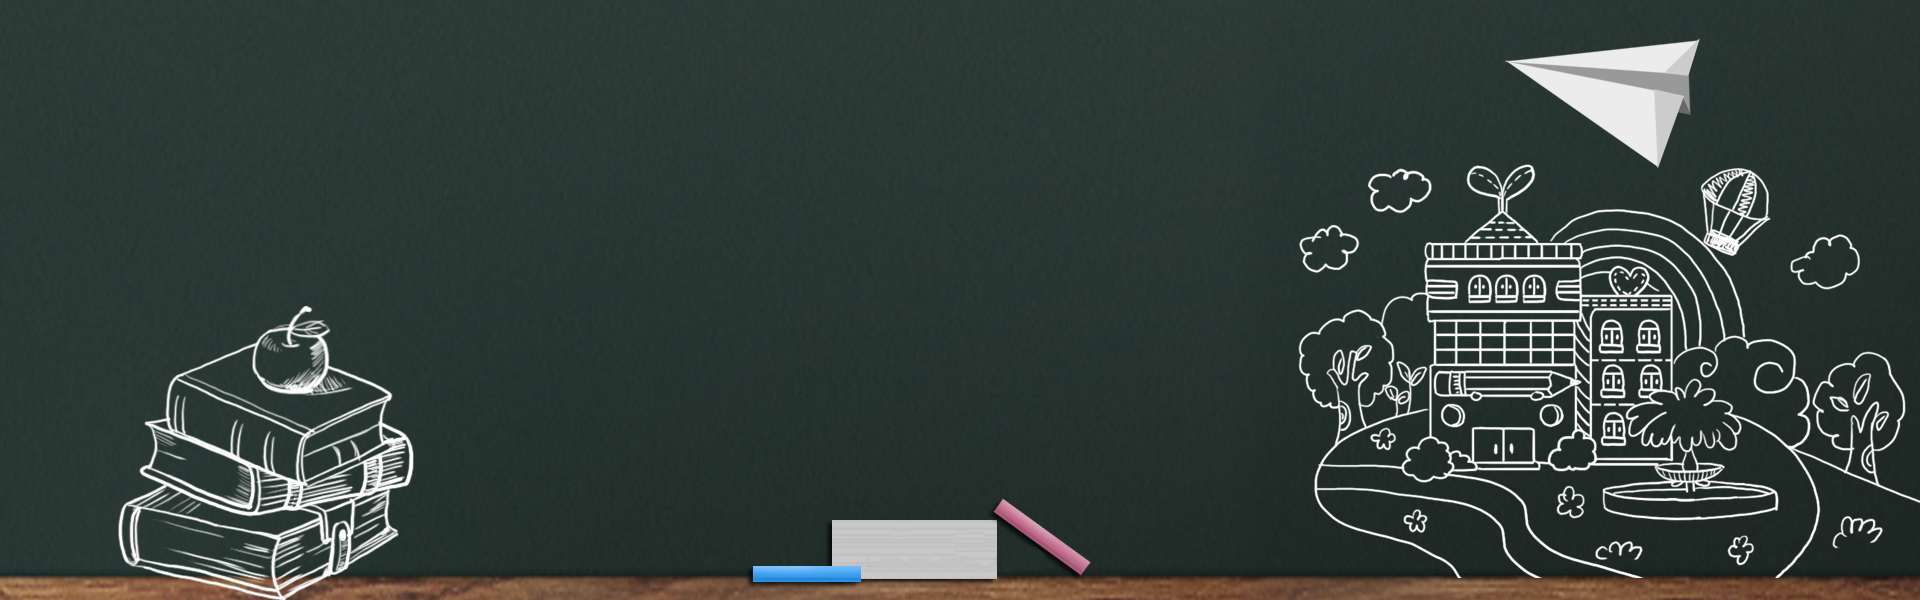
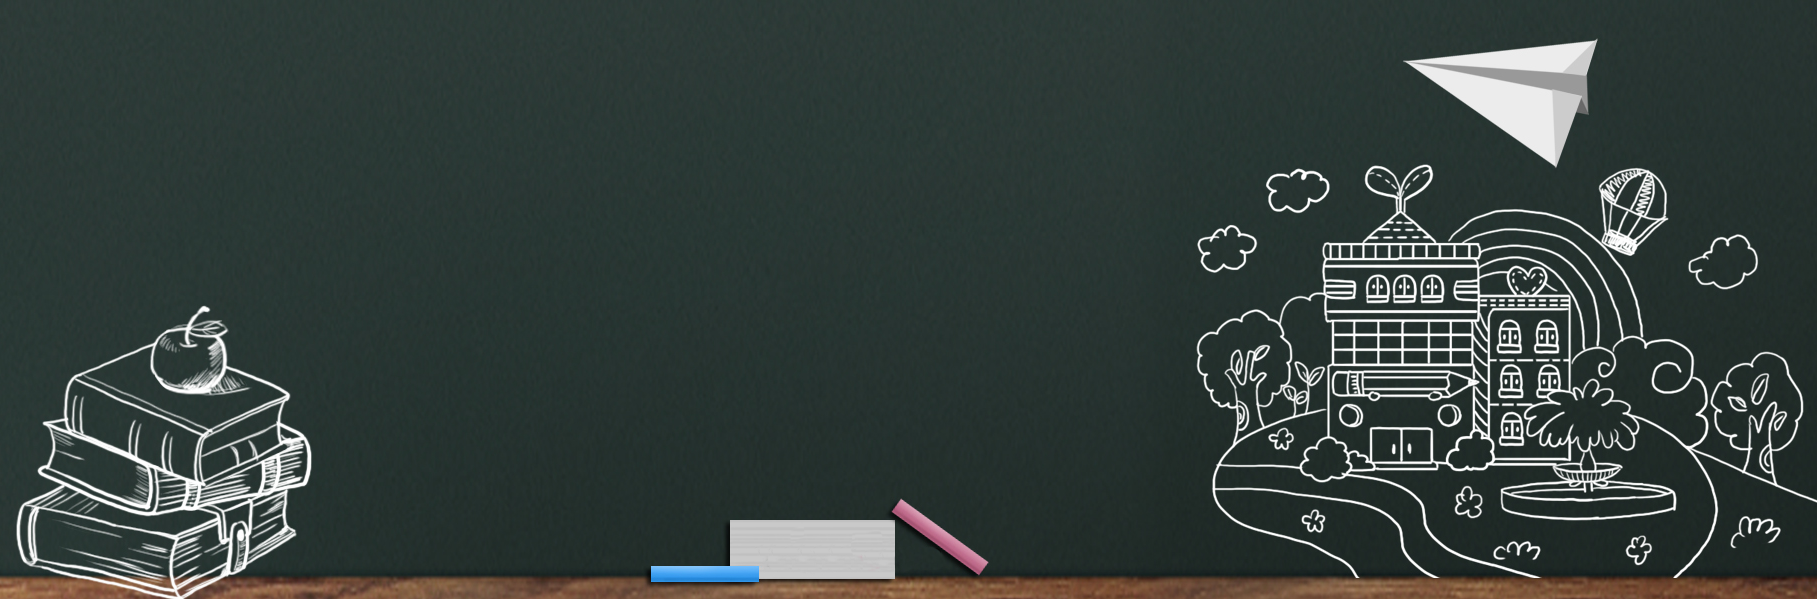
updated jumbtron Game

diff --git a/client/src/components/Jumbotron/Jumbotron.css b/client/src/components/Jumbotron/Jumbotron.css
@@ -1,61 +1,73 @@
-.page-header.page-header-small {
-  min-height: 60vh;
-  max-height: 640px;
-}
-.page-header {
-  top: 0px;
+.titleG {
+  flex-wrap: wrap;
+  box-sizing: border-box;
   width: 100%;
-  overflow: hidden;
-}
-
-.page-header:after,
-.page-header:before {
-  position: absolute;
-  z-index: 0;
-  width: 100%;
-  height: 100%;
-  display: block;
-  left: 0;
-  top: 0;
-  content: "";
-}
-
-.header .container {
-  padding-top: 26vh;
-  z-index: 2;
   position: relative;
+  flex-basis: auto;
+  min-height: 1px;
+  padding-left: 15px;
+  padding-right: 15px;
+  text-align: center !important;
 }
 
-.header h1 {
-  font-weight: 600;
-}
-
-.page-header-image {
-  position: absolute;
-  background-size: cover;
-  background-position: 50%;
+.JumboTitleOne {
+  display: flex;
+  color: #ffffff;
   width: 100%;
-  height: 60%;
-  z-index: -1;
-}
-
-.content-centerAU {
-  position: absolute;
-  top: 30%;
-  left: 50%;
   z-index: 2;
-  transform: translate(-50%, -50%);
-  text-align: center;
-  padding: 0 15px;
   width: 100%;
-  max-width: 880px;
+  margin-left: auto;
+  margin-right: auto;
+  padding-left: 15px;
+  padding-right: 30px;
+  padding-top: 30px;
+  margin-top: 5rem;
 }
 
-.content-centerAU h2 {
-  font-family: Montserrat, sans-serif;
-  font-weight: bolder;
-  font-size: 80px;
-  color: black;
-  -webkit-text-stroke-width: 1px;
-  -webkit-text-stroke-color: white;
+#GamesJumbo {
+  background-image: url("../../pictures/gamepagepics/blackboard.png");
+  background-repeat: no-repeat;
+  background-size: cover;
+  height: 350px;
+  width: 100%;
+  margin: 0px;
+  z-index: -1;
+  position: relative;
+  overflow-x: hidden;
+}
+
+#h1G {
+  margin-top: 20px;
+  position: relative;
+  display: inline-block;
+  margin-bottom: 10px;
+  font-weight: 500;
+  line-height: 1.2;
+  font-size: 40px;
+  z-index: 2;
+  font-family: "Chakra Petch", sans-serif;
+}
+
+@media (min-width: 768px) {
+  .JumboTitleOne {
+    max-width: 720px;
+  }
+}
+
+@media (max-width: 768px) {
+  #h1G {
+    font-size: 30px;
+  }
+}
+
+@media (max-width: 1100px) and (min-width: 926px) {
+  #GamesJumbo {
+    height: 350px;
+  }
+}
+
+@media (max-width: 925px) {
+  #GamesJumbo {
+    height: 300px;
+  }
 }

diff --git a/client/src/components/Jumbotron/Jumbotron.js b/client/src/components/Jumbotron/Jumbotron.js
@@ -2,21 +2,18 @@ import React from "react";
 import "./Jumbotron.css";
 import gameJumb from "../../pictures/gamepagepics/blackboard.png";
 
-const jumbStyle = {
-  backgroundImage: `url(${gameJumb})`,
-  backgroundSize: "1440px",
-};
+// const jumbStyle = {
+//   backgroundImage: `url(${gameJumb})`,
+//   backgroundSize: "1440px",
+// };
 
 function Jumbotron(props) {
   return (
-    <div className="page-header page-header-small">
-      <div
-        className="page-header-image backgroundImage"
-        style={jumbStyle}
-      ></div>
-      <div className="content-centerAU">
-        {props.children}
-        <div className="text-centerAU"></div>
+    <div id="GamesJumbo">
+      <div className="JumboTitleOne">
+        <div className="titleG">
+          <h1 id="h1G">Learning Games</h1>
+        </div>
       </div>
     </div>
   );

diff --git a/client/src/components/GamesContainer/gamescontain.js b/client/src/components/GamesContainer/gamescontain.js
@@ -3,6 +3,7 @@ import "./gamesC.css";
 import { Card, CardBody } from "reactstrap";
 import "../indexcontainer/indexC.css";
 import GameCards from "../GameCards/GameCards";
+import Jumbo from "../Jumbotron/Jumbotron.js";
 
 const Indistyle = {
   width: "550px  ",
@@ -27,15 +28,9 @@ function GamesContainer() {
   });
   return (
     <>
-      <Card id="gameContainer">
-        <h1>Learning games</h1>
-        <CardBody>
-          <div className="titleG">
-            <p id="cardText" className="mx-auto" style={Indistyle}>
-              Where unconventional learning is our specialty
-            </p>
-          </div>
-
+      <Jumbo />
+      <Card>
+        <CardBody id="GCard">
           <div class="text">
             <GameCards />
           </div>

diff --git a/client/src/components/Teamsection/Teamsection.js b/client/src/components/Teamsection/Teamsection.js
@@ -1,8 +1,8 @@
 import React from "react";
 import "./Teamsection.css";
 import image1 from "../../pictures/Screenshot (154).png";
-import image2 from "../../pictures/indexpagepics/antonio-lainez-97_u1LDOLx0-unsplash.jpg";
-import image3 from "../../pictures/indexpagepics/darren-lee-0kEvX-9hJyQ-unsplash.jpg";
+import image2 from "../../pictures/darren-lee-0kEvX-9hJyQ-unsplash.jpg";
+import image3 from "../../pictures/darren-lee-0kEvX-9hJyQ-unsplash.jpg";
 
 function Teamsection(params) {
   return (

diff --git a/client/src/components/indexcontainer/indexC.css b/client/src/components/indexcontainer/indexC.css
@@ -1,9 +1,10 @@
 #gameContainer {
-  background-image: url("../../pictures/MathApics/blackboard.png");
-  background-repeat: no-repeat;
-  background-size: cover;
-  height: 800vh;
-  width: 100vh;
+}
+#GCard {
+  position: relative;
+  display: block;
+  flex-direction: column;
+  min-width: 0;
 }
 
 .GamesTitle {
